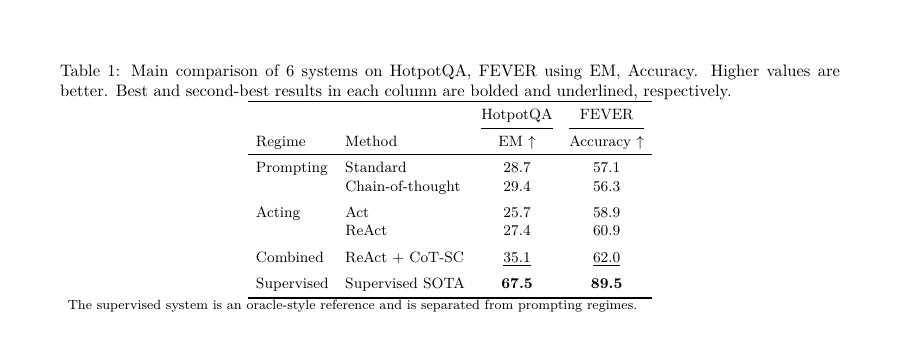
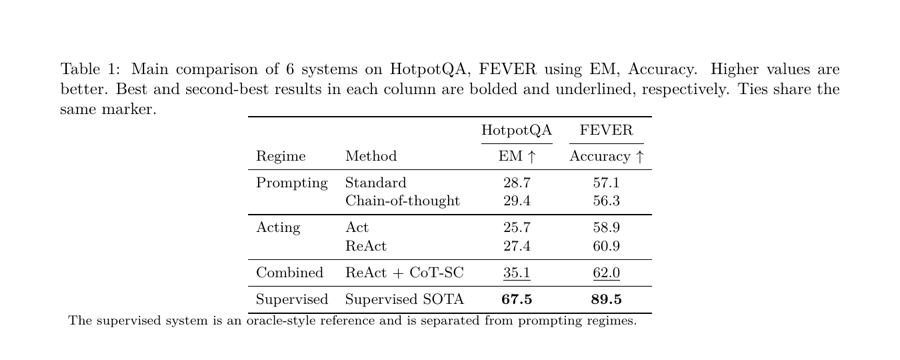
feat: strengthen semantic group separators

Changed region(s): [[0.0622, 0.1528, 0.9333, 0.9167]]

diff --git a/src/papertable/render.py b/src/papertable/render.py
@@ -115,6 +115,9 @@ def render_latex(spec: dict[str, Any], caption: str) -> str:
     tabcolsep = float(style.get("tabcolsep", 3.5 if wide else 5.0))
     fit_width = bool(style.get("fit_width", False))
     group_bands = style.get("row_group_style") == "band" and spec["orientation"] == "methods_rows"
+    separator_style = style.get("row_separator_style", "space")
+    if separator_style not in {"space", "rule"}:
+        separator_style = "space"
     band_color = _color(style.get("group_band_color"), "EFEFEF")
     highlight_color = _color(style.get("highlight_color"), "E8F1FF")
     highlight_methods = set(style.get("highlight_methods", []))
@@ -170,7 +173,7 @@ def render_latex(spec: dict[str, Any], caption: str) -> str:
                 f"\\multicolumn{{{span}}}{{c}}{{\\textbf{{{latex_escape(row['group'])}}}}} \\\\"
             )
         elif _row_separator(spec, row_index):
-            lines.append("    \\addlinespace")
+            lines.append("    \\midrule" if separator_style == "rule" else "    \\addlinespace")
         values = []
         for column_index, (column, cell) in enumerate(zip(columns, row["cells"])):
             value = _formatted_cell(cell, _cell_precision(spec, row, column))
@@ -209,12 +212,15 @@ def render_html(spec: dict[str, Any], caption: str) -> str:
     has_groups = any(label for label, _ in groups)
     style = spec.get("style", {})
     group_bands = style.get("row_group_style") == "band" and spec["orientation"] == "methods_rows"
+    separator_style = style.get("row_separator_style", "space")
+    if separator_style not in {"space", "rule"}:
+        separator_style = "space"
     band_color = _color(style.get("group_band_color"), "EFEFEF")
     highlight_color = _color(style.get("highlight_color"), "E8F1FF")
     highlight_methods = set(style.get("highlight_methods", []))
     auxiliary_columns = _auxiliary_columns(spec)
     out = ["<!doctype html>", '<meta charset="utf-8">', "<style>",
-           f"table{{border-collapse:collapse;font:14px system-ui;margin:2rem auto}}caption{{font-weight:600;margin:.8rem}}th,td{{padding:.45rem .7rem;text-align:center;border-bottom:1px solid #bbb}}thead tr:first-child th{{border-top:2px solid #222}}tbody tr:last-child td{{border-bottom:2px solid #222}}th:first-child,td:first-child{{text-align:left}}tbody tr.group-start td{{border-top:1.5px solid #555}}tbody tr.group-band th{{background:#{band_color};text-align:center;font-weight:700;border-top:1.5px solid #555}}.cell-grid{{display:inline-grid;width:100%;grid-template-columns:minmax(0,1fr) 4.8em;column-gap:.25em;align-items:baseline}}.cell-grid .primary{{text-align:right}}.cell-grid .aux{{font-size:.78em;color:#555;text-align:left}}",
+           f"table{{border-collapse:collapse;font:14px system-ui;margin:2rem auto}}caption{{font-weight:600;margin:.8rem}}th,td{{padding:.45rem .7rem;text-align:center;border-bottom:1px solid #bbb}}thead tr:first-child th{{border-top:2px solid #222}}tbody tr:last-child td{{border-bottom:2px solid #222}}th:first-child,td:first-child{{text-align:left}}tbody tr.group-start.rule td{{border-top:2px solid #555}}tbody tr.group-start.space td{{padding-top:.8rem}}tbody tr.group-band th{{background:#{band_color};text-align:center;font-weight:700;border-top:1.5px solid #555}}.cell-grid{{display:inline-grid;width:100%;grid-template-columns:minmax(0,1fr) 4.8em;column-gap:.25em;align-items:baseline}}.cell-grid .primary{{text-align:right}}.cell-grid .aux{{font-size:.78em;color:#555;text-align:left}}",
            "</style>", "<table>", f"<caption>{html.escape(caption)}</caption>", "<thead>"]
     if has_groups:
         out.append("<tr>" + "".join(f'<th rowspan="2">{html.escape(f["label"])}</th>' for f in spec["identity_columns"]) + "".join(
@@ -249,7 +255,10 @@ def render_html(spec: dict[str, Any], caption: str) -> str:
                     f'<span class="aux">{auxiliary_html}</span></span>'
                 )
             cells.append(f"<td>{escaped}</td>")
-        class_name = ' class="group-start"' if _row_separator(spec, row_index) and not group_bands else ""
+        class_name = (
+            f' class="group-start {separator_style}"'
+            if _row_separator(spec, row_index) and not group_bands else ""
+        )
         row_style = f' style="background:#{highlight_color}"' if row.get("method") in highlight_methods else ""
         out.append(f"<tr{class_name}{row_style}>{identity}{''.join(cells)}</tr>")
     out.extend(["</tbody>", "</table>"])

diff --git a/tests/test_pipeline.py b/tests/test_pipeline.py
@@ -185,6 +185,28 @@ def test_readme_displays_every_gallery_image() -> None:
         assert f"]({relative_path})" in readme, f"README does not display {relative_path}"
 
 
+@pytest.mark.parametrize(
+    ("stem", "expected_group_rules"),
+    [("compact", 3), ("scaled", 2), ("hierarchical", 1)],
+)
+def test_semantic_group_templates_use_full_width_rules(
+    tmp_path: Path, stem: str, expected_group_rules: int
+) -> None:
+    gallery = Path(__file__).parents[1] / "examples" / "gallery"
+    config = json.loads((gallery / f"{stem}.json").read_text(encoding="utf-8"))
+    generate([gallery / f"{stem}.csv"], tmp_path / stem, config)
+    latex = (tmp_path / stem / "table.tex").read_text(encoding="utf-8")
+    html = (tmp_path / stem / "table.html").read_text(encoding="utf-8")
+    spec = json.loads((tmp_path / stem / "table-spec.json").read_text(encoding="utf-8"))
+
+    assert latex.count("    \\midrule") == expected_group_rules + 1  # includes header rule
+    assert "\\addlinespace" not in latex
+    assert html.count('class="group-start rule"') == expected_group_rules
+    separator_field = next(field["key"] for field in spec["identity_columns"] if field.get("separator"))
+    group_values = [row["identity"].get(separator_field) for row in spec["rows"]]
+    assert len(list(dict.fromkeys(group_values))) == expected_group_rules + 1
+
+
 def test_all_research_backed_templates_are_discoverable() -> None:
     assert {item["id"] for item in available_templates()} == {
         "benchmark-wide",

diff --git a/src/papertable/planner.py b/src/papertable/planner.py
@@ -186,7 +186,19 @@ def _plan_methods_rows(
     for item in filtered:
         entities.setdefault(_entity_key(item, identity_columns), item)
     method_rank = {method: index for index, method in enumerate(methods)}
-    entity_items = sorted(entities.items(), key=lambda pair: method_rank.get(pair[1].method, 10**6))
+    separator_fields = [field["key"] for field in identity_columns if field.get("separator")]
+    separator_ranks: dict[str, dict[str | None, int]] = {}
+    for field in separator_fields:
+        ordered_values = list(dict.fromkeys(_values(item).get(field) for item in filtered))
+        separator_ranks[field] = {value: index for index, value in enumerate(ordered_values)}
+
+    entity_items = sorted(
+        entities.items(),
+        key=lambda pair: (
+            *(separator_ranks[field].get(_values(pair[1]).get(field), 10**6) for field in separator_fields),
+            method_rank.get(pair[1].method, 10**6),
+        ),
+    )
 
     available = {(x.dataset, x.setting, x.metric) for x in filtered}
     raw_columns = [

diff --git a/SKILL.md b/SKILL.md
@@ -38,7 +38,7 @@ Turn experimental evidence into one main-paper table whose structure makes the p
 - Choose methods-as-rows when systems outnumber benchmark groups. Choose datasets-as-rows when benchmarks outnumber the small set of focal systems.
 - Use multi-level headers for genuine dimensions such as dataset × metric or metric family × dataset. Do not create hierarchy only to fill space.
 - Compare best/second only inside a valid column or row group. Render missing evidence as `--`, never as zero, and exclude it from ranking.
-- Treat row bands, separators, and shaded focal rows as semantic navigation: use them for method families, protocol regimes, or the focal method, never as arbitrary decoration.
+- Treat row bands, separators, and shaded focal rows as semantic navigation: use them for method families, protocol regimes, or the focal method, never as arbitrary decoration. When repeated family/regime labels are suppressed and the boundary matters to scanning or comparability, use a full-width rule or band; do not make readers infer the boundary from the first identity column alone.
 - Define the ranking universe before applying bold or underline. Closed models, oracles, ensembles, literature-only values, or incompatible protocols may be displayed while explicitly excluded from ranking.
 - When displaying a parenthesized delta, preserve the absolute result and declare its baseline and whether the delta is absolute or relative. Give the auxiliary value a separate secondary slot in every affected metric column so primary values remain aligned across rows; never append it in a way that shifts the primary value or replace the measurement with a percentage gain alone.
 - Keep visual channels non-overlapping: a restrained row shade may locate the focal method, bold may mark best, and underline may mark second-best. Do not reuse one marker for provenance and significance.

diff --git a/references/template-schema.md b/references/template-schema.md
@@ -34,7 +34,7 @@ Templates are JSON objects in `assets/templates/`. User config is deep-merged ov
 ## Layout fields
 
 - `orientation`: `methods_rows` or `datasets_rows`.
-- `row_fields`: identity columns on the left. `suppress_repeat` blanks repeated labels; `separator` inserts whitespace when the value changes.
+- `row_fields`: identity columns on the left. `suppress_repeat` blanks repeated labels; `separator` marks a semantic boundary when the value changes. Its visual treatment is controlled by `style.row_separator_style`.
 - `column_order`: `dataset, metric` or `metric, dataset` for methods-as-rows.
 - `column_fields`: system label fields for datasets-as-rows.
 - `column_group_field`: optional field such as `pretrain_data` rendered above system columns.
@@ -70,7 +70,7 @@ Use `comparison` to define which displayed systems participate in best/second-be
 }
 ```
 
-Colors are six-digit RGB hex values. `fit_width` uses `graphicx`; bands and row highlights use `xcolor` with the `table` option.
+Colors are six-digit RGB hex values. `fit_width` uses `graphicx`; bands and row highlights use `xcolor` with the `table` option. `row_separator_style` accepts `space` (the default) or `rule`; use `rule` when fields marked with `separator` define visually important families or regimes.
 
 ## Auxiliary deltas
 

diff --git a/references/design-grammar.md b/references/design-grammar.md
@@ -19,7 +19,8 @@ The left side answers "what exactly was run?"
 
 - Use separate identity columns when model, method, backbone, data, budget, protocol, or source changes comparability.
 - Use full-width family bands when readers primarily need to scan categories such as proprietary / general / multimodal / agentic systems.
-- Use whitespace or midrules for lighter distinctions such as prior work / reproduced baselines / ours.
+- Match separator strength to the semantic boundary: whitespace for a weak subdivision, a full-width midrule when a family/regime change must remain visible across numeric columns, and a band when the taxonomy is itself a primary reading axis.
+- When repeated family/regime labels are suppressed, do not rely on the first identity column alone. Use a rule or band if readers otherwise cannot trace the group boundary across the table.
 - Use a restrained focal-row shade only to locate the proposed system. It must not substitute for numerical emphasis.
 
 ## 3. Column topology

diff --git a/references/template-selection.md b/references/template-selection.md
@@ -37,6 +37,6 @@ If changing a value could invalidate a direct comparison, display it as an ident
 
 ## Row grouping
 
-Use group changes for scientifically meaningful regimes: prior work / reproduced baselines / ours; base model family; prompting / finetuning / supervised oracle. Prefer whitespace or a restrained midrule. Avoid repeating the same family label on every row.
+Use group changes for scientifically meaningful regimes: prior work / reproduced baselines / ours; base model family; prompting / finetuning / supervised oracle. Use whitespace for weak subdivisions and a full-width rule when the boundary must be traceable across all metric columns. Avoid repeating the same family label on every row.
 
 Use `family-banded-benchmark` when the group taxonomy is itself one of the first things readers must understand. A band is stronger than whitespace and should not be used for incidental source ordering.

diff --git a/README.md b/README.md
@@ -36,13 +36,13 @@
 
 ![Compact regime comparison table](docs/assets/gallery/compact-regime-comparison.png)
 
-将 prompting、acting、combined 与 supervised reference 分段展示，在保持窄表结构的同时明确比较制度。
+将 prompting、acting、combined 与 supervised reference 用贯穿整表的横线分段，在保持窄表结构的同时明确比较制度。
 
 ### 同一家族的模型规模与深度变体
 
 ![Scaled model variants table](docs/assets/gallery/scaled-variants.png)
 
-模型家族、具体变体、深度与参数量分别占列，使规模变化与主要结果保持可追踪关系。
+模型家族、具体变体、深度与参数量分别占列，并用横线标出 family 边界，使规模变化与主要结果保持可追踪关系。
 
 ## 为什么不只有一个“万能表”
 
